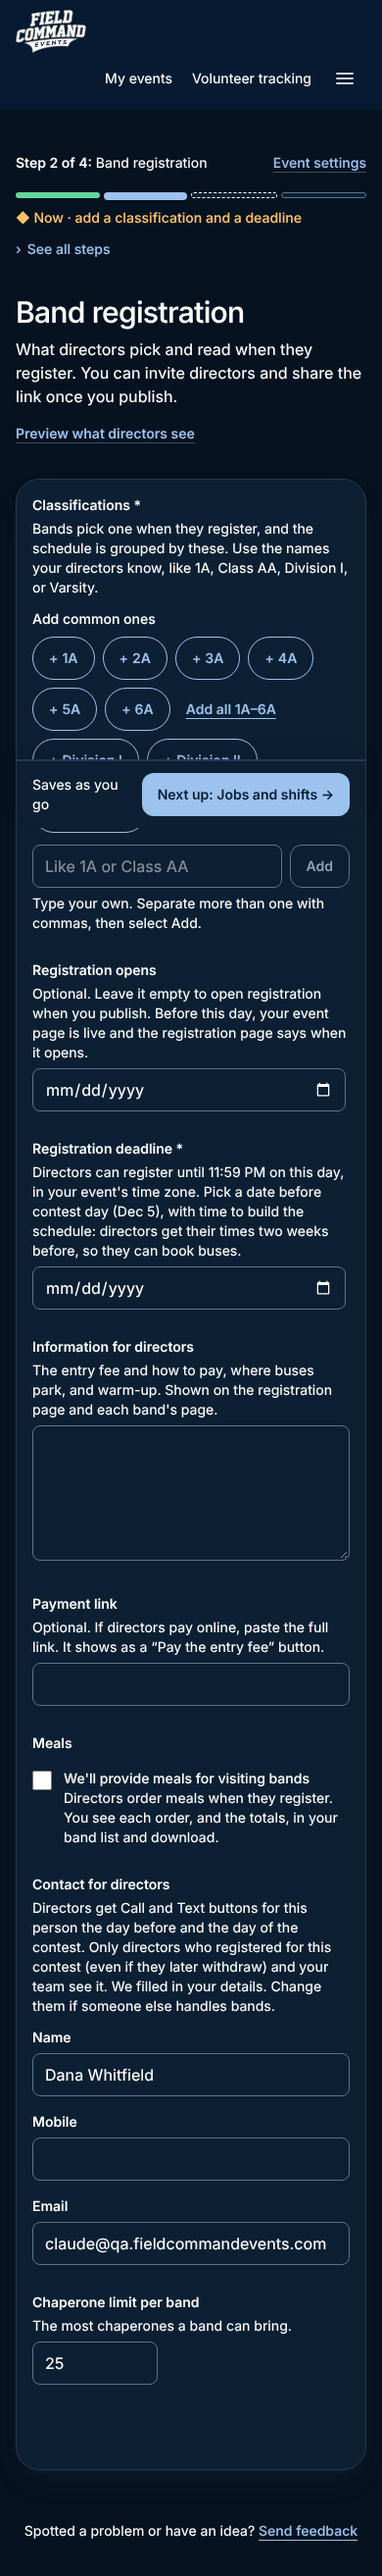
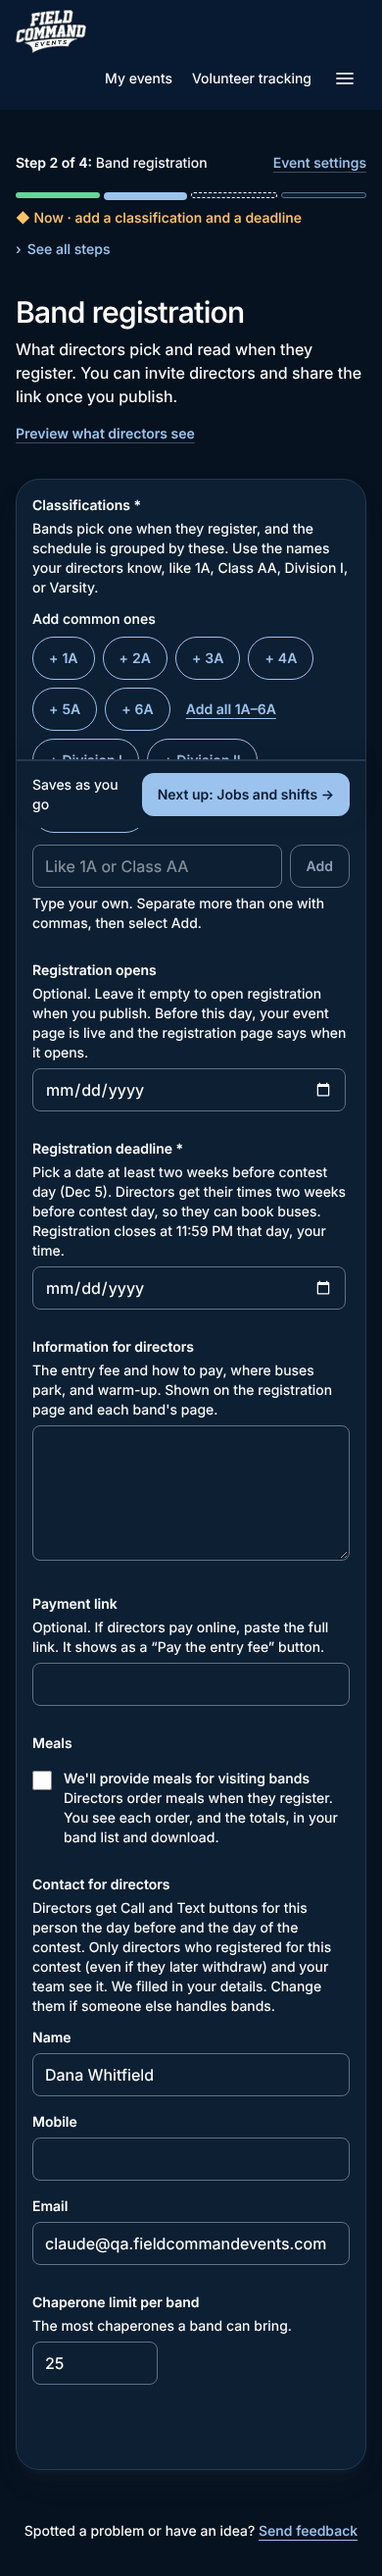
Seven small items: the light check's refinements, decisions, and the dashed-border rule
- The locked "Every week" choice is muted, with its link on its own line
- A shorter, clearer deadline help; one "where the logo shows" on the logo card
- The demo card uses the new role names, and its role buttons have a clear border
- Decisions logged; the event setup pattern says what dashed borders mean

Claude-Session: https://claude.ai/code/session_015NaEPpF7tacknYvkWK5f8d

Changed region(s): [[0.0923, 0.4372, 0.8923, 0.4996]]

diff --git a/src/app/dashboard/events/[eventId]/conferences/conference-forms.tsx b/src/app/dashboard/events/[eventId]/conferences/conference-forms.tsx
@@ -357,8 +357,8 @@ function TimesForm({
                 className="team-radio mt-1"
               />
               <span>
-                <span className="flex flex-wrap items-center gap-2 font-semibold">
-                  {/* Locked, not optional: a solid border and a lock, since dashed means optional or empty (light check, 2026-11-08). */}
+                {/* Locked, not optional: a solid border, a lock, and a muted title, since dashed means optional or empty (light check, 2026-11-08). */}
+                <span className={`flex flex-wrap items-center gap-2 font-semibold ${locked ? "text-muted" : ""}`}>
                   {locked && <LineIcon name="lock" inline />}
                   {o.label}
                   {/* Meetings always need a plan, so weekly hours aren't an extra for them. */}
@@ -371,9 +371,10 @@ function TimesForm({
                       {booked === 1 ? `1 ${w.family} has` : `${booked} ${w.families} have`} booked, so this stays{" "}
                       {initial.schedule === "weekly" ? "weekly" : "one day"}.{" "}
                       {copyAction && o.value === "weekly" && (
-                        <>
+                        // Its own line at every width, so the reason reads as one even paragraph.
+                        <span className="mt-1 block">
                           Need more times? <WeeklyCopyButton action={copyAction} />
-                        </>
+                        </span>
                       )}
                     </>
                   ) : forMeetings && o.value === "one_day" ? (

diff --git a/src/app/dashboard/events/[eventId]/bands/registration-settings.tsx b/src/app/dashboard/events/[eventId]/bands/registration-settings.tsx
@@ -492,7 +492,7 @@ export function RegistrationSettings({
           id="reg-deadline"
           label="Registration deadline"
           required
-          hint={`Directors can register until 11:59 PM on this day, in your event's time zone. Pick a date before contest day (${contest.label}), with time to build the schedule: directors get their times two weeks before, so they can book buses.`}
+          hint={`Pick a date at least two weeks before contest day (${contest.label}). Directors get their times two weeks before contest day, so they can book buses. Registration closes at 11:59 PM that day, your time.`}
           saver={deadline}
         >
           <Input

diff --git a/src/app/dashboard/events/[eventId]/edit/page.tsx b/src/app/dashboard/events/[eventId]/edit/page.tsx
@@ -603,7 +603,7 @@ export default async function EditEventPage({ params, searchParams }: PageProps<
                     {conferenceHere
                       ? booking.child
                         ? "Show a teacher how conferences work, as the teacher or as a parent booking a time."
-                        : "Show how meetings work, as the host or as someone booking a time."
+                        : "Show how meetings work, as the organizer or as someone booking a time."
                       : "See this event the way each person on it does, without switching emails."}
                   </p>
                   <details className="text-sm leading-6 text-muted">

diff --git a/src/components/demo-switcher.tsx b/src/components/demo-switcher.tsx
@@ -49,7 +49,7 @@ export function RoleButtons({
             className={`min-h-11 shrink-0 rounded-full border px-4 text-sm font-medium transition disabled:opacity-60 ${
               p.value === current
                 ? "border-brand bg-brand text-brand-foreground"
-                : "border-border bg-surface hover:border-brand"
+                : "border-[1.5px] border-field-border bg-surface hover:border-brand"
             }`}
           >
             {pending && picked === p.value ? "Switching…" : p.label}

diff --git a/src/components/logo-form.tsx b/src/components/logo-form.tsx
@@ -133,7 +133,7 @@ export function LogoForm({ eventId, logo, color }: { eventId: string | null; log
             )}
           </div>
           <p className="text-xs text-muted" aria-live="polite">
-            {busy ?? "PNG or JPG, up to 2 MB. Shown on your public event pages and volunteer badges."}
+            {busy ?? "PNG or JPG, up to 2 MB."}
           </p>
         </div>
       </div>

diff --git a/docs/design-decisions/2026-11-08-setup-alignment.md b/docs/design-decisions/2026-11-08-setup-alignment.md
@@ -43,3 +43,20 @@ changes). Software Engineer bugs fixed. The owner's decision on the new suggesti
 | 8 | Unpublishing volunteer events and band contests doesn't say what happens to people; Delete doesn't name bookings | 2 | Take the advice | |
 | 9 | "When you publish" doesn't say what opens for volunteer events and meetings | 2 | Take the advice | |
 | 10 | Small items (nav names, bus rules, band logo card, cut-off email, dashed borders, small targets, demo chips) | 2 | Later | |
+
+## The seven items left for later (2026-11-08)
+
+The owner chose to do them now. Light check (UI Designer, consultant) on
+`docs/design-reviews/2026-11-08-small-items/`: nothing rated 3 or 4; its severity 2 refinements were made
+(the locked choice muted, with its link on its own line; a shorter deadline help; one "where the logo
+shows"; the demo card's wording and button borders).
+
+| # | Item | Decision | Notes |
+|---|---|---|---|
+| 1 | "Volunteers" vs "Volunteer tracking" in the top menu | Take the advice | "Volunteer tracking" at every width |
+| 2 | Two bus-booking rules | Take the advice | "At least two weeks before contest day", matching the schedule card |
+| 3 | Band contest logo card | Take the advice | Names the registration page and each band's page |
+| 4 | Cut-off contact email | Take the advice | Its own row |
+| 5 | Dashed borders mean three things | Take the advice | Dashed = optional or an empty slot only; disabled is solid and muted; locked is solid and muted with a lock |
+| 6 | Small tap targets | Take the advice | Demo role buttons are 44 px; "See all steps", "Copy link", and "QR code" already were |
+| 7 | Demo card's "Host"/"Guest" | Take the advice | Organizer / Someone booking (meetings), Teacher / Parent (conferences) |

diff --git a/docs/event-setup-pattern.md b/docs/event-setup-pattern.md
@@ -83,7 +83,9 @@ logged in `docs/design-decisions/`. The rules behind it, with where each was fou
 ## 7. Every screen
 26. **Phone (390 px), tablet (820 px), and desktop (1440 px), light and dark,** every time, with 44 px tap
     targets and nothing hidden off-screen. [L12]
-27. **Status is never shown by color alone,** and controls stay readable in dark mode. [L6, L7]
+27. **Status is never shown by color alone,** and controls stay readable in dark mode. Dashed borders mean
+    "optional" or "an empty slot" only: a disabled button is solid and muted, and a locked choice is solid and
+    muted with a lock. [L6, L7]
 28. **Design every state:** empty, partway done, ready, live, full, and over. [L2, L19]
 
 ## 8. How a new kind of event gets built
